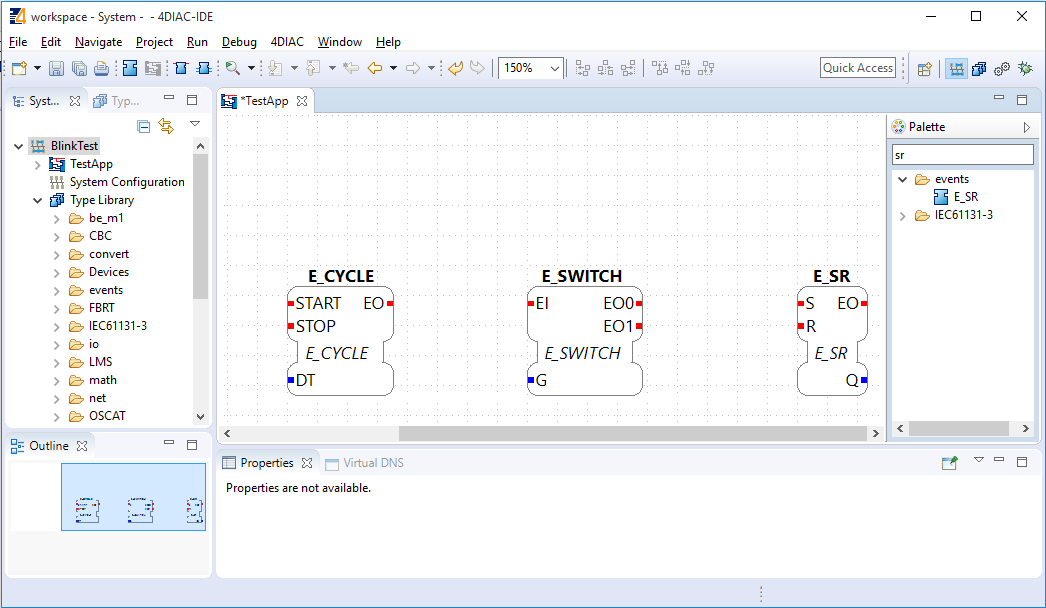
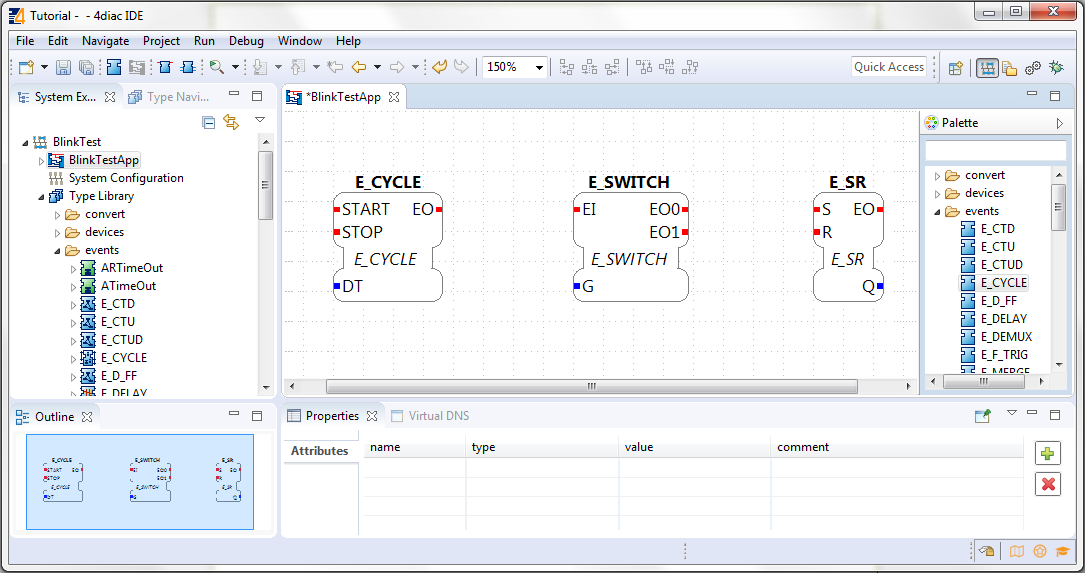
[539344] Update of tutorial step 1
Reworked most of the images, cleaned up the description text and
expanded it for better readability.

Changed the section order to be in development proces of IEC 61499 by
first defining the application and then configuring the system.

Bug: https://bugs.eclipse.org/bugs/show_bug.cgi?id=539344

diff --git a/plugins/org.eclipse.fordiac.ide/html/4diacIDE/use4diacLocally.html b/plugins/org.eclipse.fordiac.ide/html/4diacIDE/use4diacLocally.html
@@ -21,13 +21,13 @@
   </head>
   <body>
 
-    <h1 id="topOfPage">Step 1 - Use 4DIAC-IDE locally (Blinking tutorial)</h1>
+    <h1 id="topOfPage">Step 1 - Use 4diac IDE locally (Blinking tutorial)</h1>
 
     <p>This page is part of a guide that gives a walkthrough over the major 4DIAC features.</p>
 
     <ol start="0">
       <li><a href="./overview.html">Overview</a></li>
-      <li>Use 4DIAC locally (YOU ARE HERE!)</li>
+      <li>Use 4diac IDE locally (YOU ARE HERE!)</li>
       <li><a href="./distribute4diac.html">Create a distributed application</a></li>
       <li><a href="./use4diacRemotely.html">Deploy remotely</a></li>
       <li><a href="./createOwnTypes.html">Create your own Function Blocks</a></li>
@@ -35,73 +35,39 @@
       <li><a href="./advancedFeatures.html">Advanced Features [optional]</a></li>
     </ol>
 
-    <p>In this guide, it will be shown a simple Blinking application. It's the "Hello World" of automation programs, so it will be enough to understand the key aspects and workflow of 4DIAC. The application will run locally, so no connection to any PLC or external hardware is needed. The architecture is shown below.</p>
+    <p>In this tutorial you create a simple Blinking application. It's the "Hello World" of automation programs, so it will be enough to understand the key aspects and workflow of 4diac IDE. The application will run locally, so no connection to any PLC or external hardware is needed. The architecture is shown below.</p>
 
     <img src="./img/locallyArchitecture.png" alt="architecture for the current step" />
+
+    <p>After completing Step 0 switch to the system perspective using the <img src="./img/system.png" alt="System Perspective Button" class="inlineImg"/> Button.</p>
+
+<!----------------------------------------------------------------------------------------------------------------->
 
     <h2 id="createSystem">Create a new IEC 61499 System</h2>
 
      <ol>
-       <li>Select the System Perspective using the <img src="./img/system.png" alt="System Perspective Button" class="inlineImg"/> button create a new IEC 61499 System, by selecting either
-        <ul>
-          <li>Context menu of the <span class="menu4diac">System Explorer &rarr; New &rarr; New System</span>,</li>
-          <li><span class="menu4diac">File &rarr; New &rarr; New System</span>.</li>
-          <li><span class="menu4diac">File &rarr; New &rarr; Other... &rarr; 4DIAC</span> and select <span class="menu4diac">New System</span>.
-          <div><img src="./img/newSystemWizardSelection.png" alt="Create a new IEC 61499 System" /></div></li>
-        </ul>
-       </li>
-       <li>Follow the instructions in the creation wizard. In the following wizard, the project name has to be specified.
+       <li>In the upper left corner of the system perspective there is the main menü. Create a new system by selecting
+       <br><span class="menu4diac">File &rarr; New &rarr; New System</span></li>
+       <li>Follow the instructions in the creation wizard. For this tutorial we name our new system <i>BlinkTest</i>.
        <div><img src="./img/newSystemWizard.png" alt="Create a new IEC 61499 System" /></div></li>
     </ol>
 
-    <p>The system appears in the <span class="view4diac">System Explorer</span> on the left. There you can see two things now:</p>
+    <p>The system appears in the <span class="view4diac">System Explorer</span> on the left, click on the <i>BlinkTest</i> to unfold the tree. There you can see three things now:</p>
 
     <ul>
-      <li>System Configuration: The definition of the devices present in your System.</li>
-      <li>Type Library: You find here all the available Function Blocks for this System.</li>
+      <li><b><i>BlinkTest</i>App</b>: The automatically generated initial control application. The name can be freely chosen. Your application is located here.
+      <li><b>System Configuration</b>: The definition of the devices present in your System.</li>
+      <li><b>Type Library</b>: You find here all the available Function Blocks for this System.</li>
     </ul>
-
-    <p>You will see here also later the applications you develop.</p>
 
     <p>New systems per default contain a copy the types in the Type Library. If different types are need, for example from another project or another IEC 61499 engineering tool, these type files can be easily added by copying them into the project directory at the desired place. Furthermore the <span class="view4diac">Type Navigator</span> allows to drag and drop types between projects as well as within a project to a different folder.</p>
 
-    <h2 id="configureHardware">Configuration of the Automation Hardware</h2>
-      <p>First, let's define the devices that are present in out system. The automation hardware can be modelled with the <span class="view4diac">System Configuration Editor</span>. It can be opened by double clicking on the <span class="view4diac">System Configuration</span> tree node in the <span class="view4diac">System Explorer</span> on the left. By using Drag and Drop, Device, Resource and Segment types can be added from the palette. On an IEC 61499 Device several IEC 61499 Resources can be configured. Resources can be directly added to Devices.</p>
-      <p> Drag and Drop a <span class="element4diac">FORTE_PC</span> Device and a <span class="element4diac">Ethernet</span> Segment from the Palette. Connect them clicking on one of them and dragging to the other. One EMB_RES resource is already present in the device. The MGR_ID <span class="address">localhost:61499</span> specifies the IP:PORT where the device will run. In this case it'll run locally and will listen at the port 61499.</p>
-      <img src="./img/systemConfigurationEditor.png" alt="System Configuration Editor" />
-      <p></p>
-    
-    <p>Device and Resource parameters can either be specified directly at each Device/Resource or via the Properties View. The <span class="view4diac">Properties View</span> shows the parameters of a IEC 61499 Device/Resource (if it is selected either in the <span class="view4diac">System Configuration Editor</span> or in the <span class="view4diac">System Manager View</span>). The most important parameters are the IP address and the port of the device management interface as they are required for the communication between the engineering tool and the Devices (e.g. Download of IEC 61499 Applications).</p>
+<!----------------------------------------------------------------------------------------------------------------->
 
-    <p>Check that the Profile in the Properties tab is set to HOLOBLOC.</p>
-    
-    <h3 id="deviceProfileConfiguration">Configuration of the Device's Configuration Profile</h3>
-    <p>In order to support different device vendors' download mechanism you need to specify the device profile to be used for your device.
-    currently 4DIAC-IDE supports the following two device profiles:
-    </p>
-    <ul>
-      <li><span class="specificText">HOLOBLOC</span> Device conforming to the <span class="specificText">"IEC 61499 Compliance Profile for Feasibility Demonstrations"</span>. Currently the devices supporting this profile are all <span class="specificText">FORTE</span> devices and <span class="specificText">FBDK</span> devices older than 2009.</li>
-      <li><span class="specificText">FBDK2</span> for FBDK devices version 2 or later.</li>
-    </ul>
-    
-    <h2 id="createApplication">Create a new IEC 61499 Application</h2>
-      <ol>
-        <li>Create a new IEC 61499 Application, by selecting either
-          <ul>
-            <li>Select a System, and on the context menu: <span class="menu4diac">New &rarr; New Application</span></li>
-            <li><span class="menu4diac">File &rarr; New &rarr; New Application</span></li>
-            <li><span class="menu4diac">File &rarr; New &rarr; Other... &rarr; 4DIAC</span> and select <span class="button4diac">New Application</span>.
-            <div><img src="./img/createApplicationWizardSelection.png" alt="Create a new IEC 61499 Application" /></div></li>
-          </ul>
-        </li>
-        <li> Follow the instruction in the creation wizard. In the following page of the wizard, the name of the Application and the corresponding parent System have to be specified. The number of applications that can be created is not limited.
-        <div><img src="./img/createApplicationSystemSelection.png" alt="Create a new IEC 61499 Application Select target system" /></div></li>
-      </ol>
-    
-    <h2 id="createNetwork">Create a network of FBs for the Blink application</h2>
+    <h2 id="createNetwork">Create a FB network for the Blink application</h2>
       <p>A double-click on an Application in the System Explorer tab on the left opens the Application Editor for this specific application in the editor area.</p>
       <ol>
-        <li>Drag and Drop the following Function Blocks (FBs) to the Editor. Use the Palette on the right or the Type Libary in the System Explorer (the three are in the <span class="folderLocation">event</span> folder):
+        <li>Drag and Drop the following Function Blocks (FBs) to the Editor. Open the Palette (if not already open) on the upper right of <b>editor area</b> by clicking on the left arrow or use the Type Library in the System Exporer. The three FBs are in the <span class="folderLocation">event</span> folder:
           <ul>
             <li>E_CYCLE </li>
             <li>E_SWTICH</li>
@@ -113,7 +79,7 @@
           <p>The name on top of the FB is the instace name. Two FBs cannot have the same instance name. You can double click on it to change it for a better organized application.</p>
         </li>
         <li>Create the connections between the FBs
-          <p>Event (red, on top part of FBs) and Data (blue, on lower part of FBs) connections can be generated by connecting the Event-/Data in- and outputs. Position the mouse pointer over an Event-/Data in- or output, click and drag to the other end of the connection to create one. Remember, Event and Data connections cannot be mixed. Events connections allow fan-in and fan-out. Data connections allow fan-out but not fan-in.</p>
+          <p><b>Event</b> (red, on top part of FBs) and <b>Data</b> (blue, on lower part of FBs) <b>connections</b> can be generated by connecting the Event-/Data in- and outputs. Position the mouse pointer over an Event-/Data in- or output, click and drag to the other end of the connection to create one. Remember, Event and Data connections cannot be mixed. Events connections allow fan-in and fan-out. Data connections allow fan-out but not fan-in.</p>
 
           <img src="./img/blinkWithConnections.png" alt="Function Blocks for the blink example" />
 
@@ -127,7 +93,7 @@
         <li>Set a literal as an input data connection. The DT input data connection of E_CYCLE must be set to a value in order for it to work. You can do it by either:
           <ul>
             <li>Double click on the data connection in the Application Editor</li>
-            <li>Selec the FB or the Data connection itself, and change the value in the Properties tab below.</li>
+            <li>Select the DT of the FB and change the value in the Properties tab below or double-click on DT and set the value directly</li>
           </ul>
           <p>Set the value to <span class="specificText">T#1s</span>, meaning 1 second.</p>
 
@@ -135,27 +101,61 @@
         </li>
       </ol>
     <p>Now the application is done. You should try to understand how the application works. Something missing is the starting event. This would be done later when the hardware is configured. For now, imagine an event arrives to E_CYCLE.START. Every 1 second, and event output will be triggered in E_CYCLE.EO. The E_SWITCH will trigger an event output EO0 when G is zero, and EO1 when G is one. The value Q of E_SR will be 1 when an event at S arrive and 0 when an event at R arrive. Try to follow the flow of events and understand why this application makes Q toogle, considering it starts at 0.</p>
+
+<!----------------------------------------------------------------------------------------------------------------->
     
-	  
+    <h2 id="configureHardware">Configuration of the Automation Hardware</h2>
+      <p>First, let's define the devices that are present in out system. The automation hardware can be modelled with the <span class="view4diac">System Configuration Editor</span>. It can be opened by double clicking on the <span class="view4diac">System Configuration</span> tree node in the <span class="view4diac">System Explorer</span> on the left. By using Drag and Drop, Device, Resource and Segment types can be added from the palette. On an IEC 61499 Device several IEC 61499 Resources can be configured. Resources can be directly added to Devices.</p>
+      <p> Drag and Drop a</p> 
+         <ol>
+            <li><span class="element4diac">FORTE_PC</span> Device</li>
+            <li><span class="element4diac">Ethernet</span> Segment</li>
+        </ol>
+    <p>from the Palette. 
+    <p>Connect them by clicking on one  and dragging to the other. The segment is divided in two areas, the left is for moving, the right for connections. The device can be connecting by clicking on the device type (second row). One EMB_RES resource is already present in the device. The MGR_ID <span class="address">localhost:61499</span> specifies the IP:PORT where the device will run. In this case it'll run locally and will listen at the port 61499.</p>
+      <img src="./img/systemConfigurationEditor.png" alt="System Configuration Editor" />
+    <p>Check that the Profile in the Properties tab is set to HOLOBLOC.</p>
+    <p>The color is automatically generated for better orientation in the system. When several devices or segments are in use, you can see at a glance where the FB belongs to. If you like to change the color, click on the device or segment. In the property view on the bottom of the screen you find the tab Apperance. Here you can choose a color you like best.</p>
+    
+    <p>The resource is automatically generated for your convenience. EMB_RES stands for Embedded Resource. For this tutorial it is best to change it in the property view to Blinky_RES for a better understanding. You can also double-click on the name.</p>
+       <img src="./img/changeResourceName.png" alt="changing the name of the Resource" />
+    
+    <p>Device and Resource parameters can either be specified directly at each Device/Resource or via the Properties View. The <span class="view4diac">Properties View</span> shows the parameters of a IEC 61499 Device/Resource (if it is selected either in the <span class="view4diac">System Configuration Editor</span> or in the <span class="view4diac">System Manager View</span>). The most important parameters are the IP address and the port of the device management interface as they are required for the communication between the engineering tool and the Devices (e.g. Download of IEC 61499 Applications).</p>
+    
+    <h3 id="deviceProfileConfiguration">Configuration of the Device's Configuration Profile</h3>
+    <p>In order to support different device vendors' download mechanism you need to specify the device profile to be used for your device.
+    currently 4DIAC-IDE supports the following two device profiles:
+    </p>
+    <ul>
+      <li><span class="specificText">HOLOBLOC</span> Device conforming to the <span class="specificText">"IEC 61499 Compliance Profile for Feasibility Demonstrations"</span>. Currently the devices supporting this profile are all <span class="specificText">FORTE</span> devices and <span class="specificText">FBDK</span> devices older than 2009.</li>
+      <li><span class="specificText">FBDK2</span> for FBDK devices version 2 or later.</li>
+    </ul>
+
+<!----------------------------------------------------------------------------------------------------------------->    	  
     
     <h2 id="mapNetworks">Mapping of Function Block Networks to Devices/Resources</h2>
     <p>Mapping FBs means specifing in which Hardware will each FBs run. All mapped FBs are changing their fill color to the Device's color during the mapping process.</p>
 	
-    <p>Go to the Application created before, select the FBs you want to map (in this case all of them), <span class="menu4diac">right click &rarr; Map to ... &rarr; FORTE_PC &rarr; EMB_RES</span></p>
+    <p>Go to the Application created before, select the FBs you want to map by clicking left and draw a rectangle over it (in this case all of them), 
+    <p><span class="menu4diac">right click &rarr; Map to ... &rarr; FORTE_PC &rarr; Blinky_RES</span></p>
 
     <img src="./img/mappingInAppEditor.png" alt="Mapping of Function Block Instances within the Application Editor" />
 
     <p>To unmap a Function Block instance from a Resource, use the context menu entry <span class="menu4diac">Unmap</span> of a Function Block in the corresponding <span class="button4diac">Application</span>.</p>
 
+<!----------------------------------------------------------------------------------------------------------------->
+
     <h2 id="configureResource">Configure the Resource</h2>
 
-    <p>You can ope the Resource Configuration by double clicking the Resource in the System Configuration, or in the tree in the System Explorer on the left.</p>
+    <p>You can open the <b>Resource Editor</b> by double clicking the Resource in the System Configuration, or in the tree in the System Explorer on the left.</p>
 
     <p>There you can find a START function block in white. This is the default starter fuction block of the EMB_RES. This will trigger a COLD event when starting. The STOP is triggered when the PLC is set to a STOP state, and the WARM when the PLC changes from a STOP state back to a RUN state. Connect both COLD and WARM to E_CYCLE.START.</p>
      
 	   <img src="./img/resourceComplete.png" alt="Resource completely connected"/>
 
      <p>You also see the FBs that were previosly mapped. You can add more FBs directly here and they will be already mapped to the resource, or you can unmap the FBs.</p>
+
+<!----------------------------------------------------------------------------------------------------------------->
 
      <h2 id="deployingToForte">Deploying application to FORTE</h2>
      
@@ -182,6 +182,8 @@
     <p><span class="menu4diac">Delete Resource</span> deletes just the selected resource:</p>
     <img src="./img/cleanResource.png" width="1024" alt="Clean Resource" />
     
+<!----------------------------------------------------------------------------------------------------------------->
+  
      <h2 id="monitoringApplication">Monitoring the Application</h2>
 
      <p>To observe the outputs of your Application you can use 4diac's monitoring functionality. You can enable it in the toolbar under the toolbar icon: <img class="inlineImg" src="./img/properties/startMon.gif" alt="Monitoring" /> or doing the following:</p>
@@ -209,6 +211,8 @@
       <img src="./img/monitoringForce.png" alt="Force value"/>
 
       <img src="./img/monitoringTrigger.png" alt="Trigger Event"/>
+
+<!----------------------------------------------------------------------------------------------------------------->
 
 <h1>Where to go from here?</h1>
 
